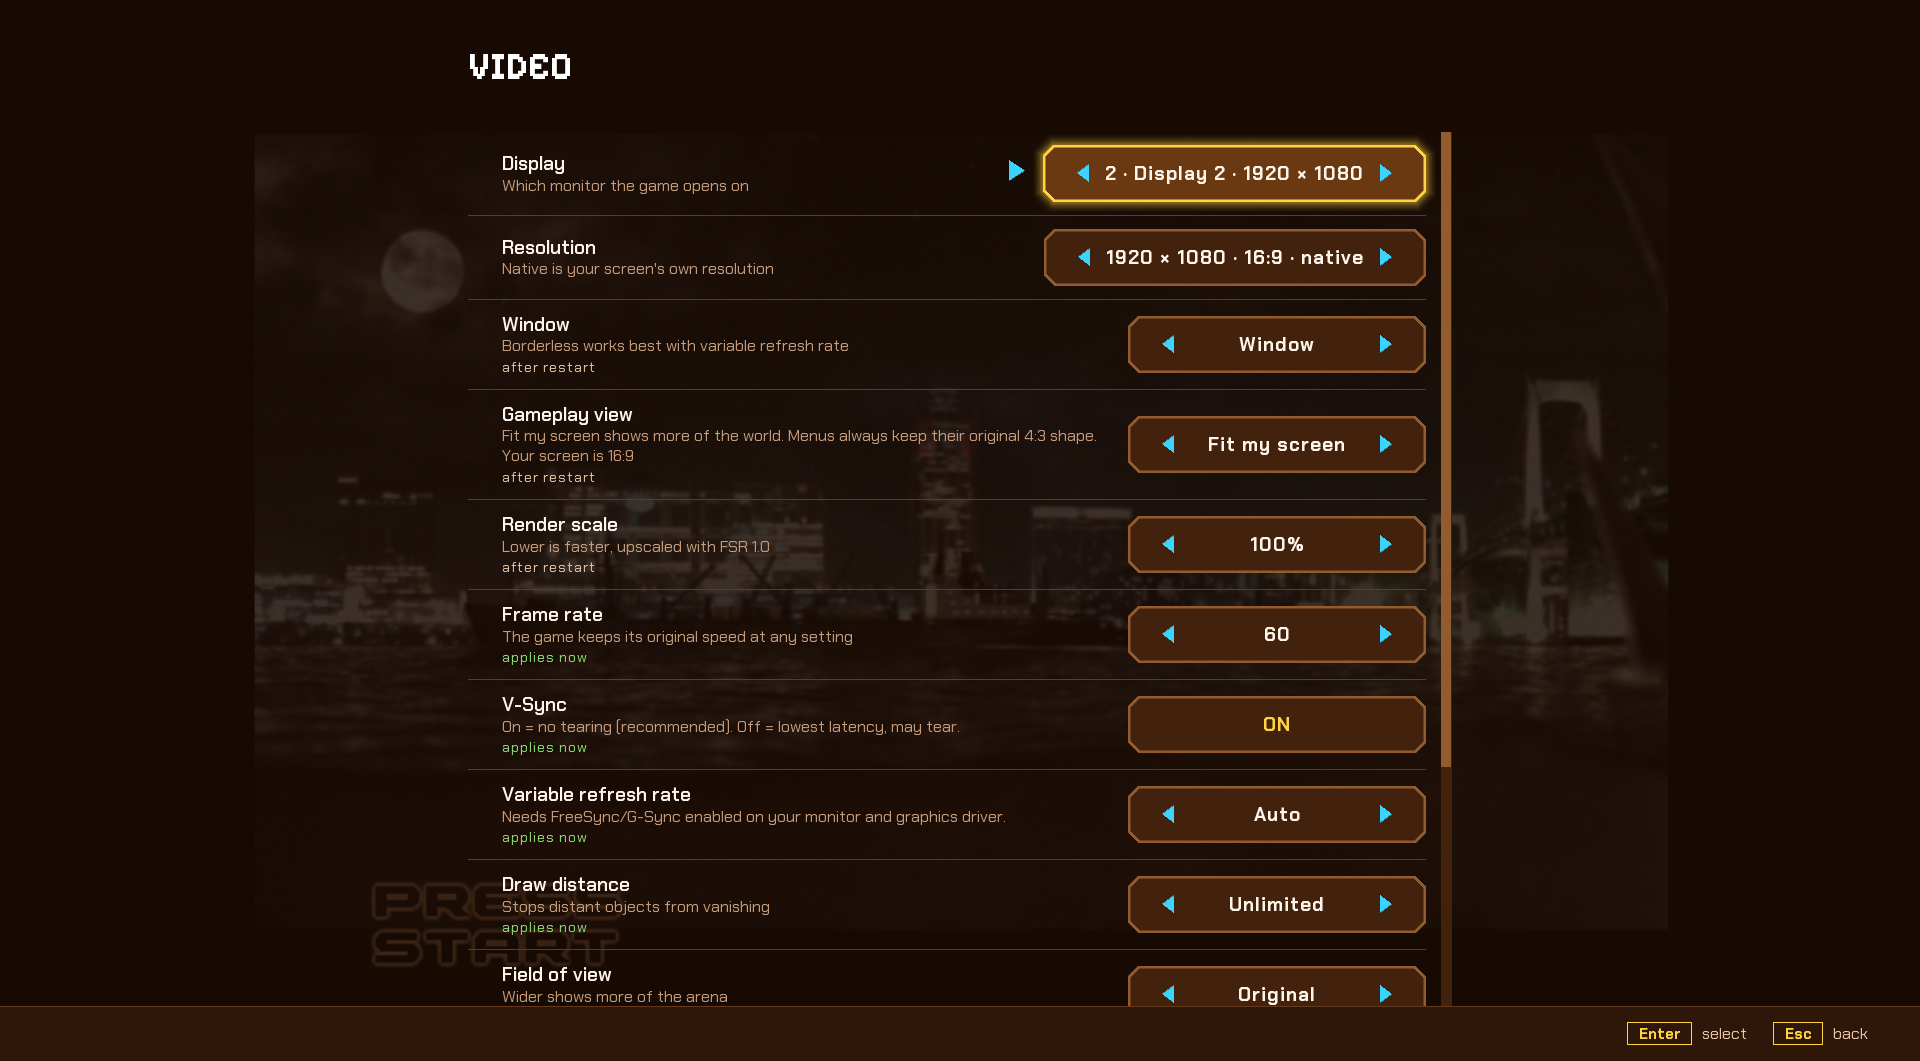
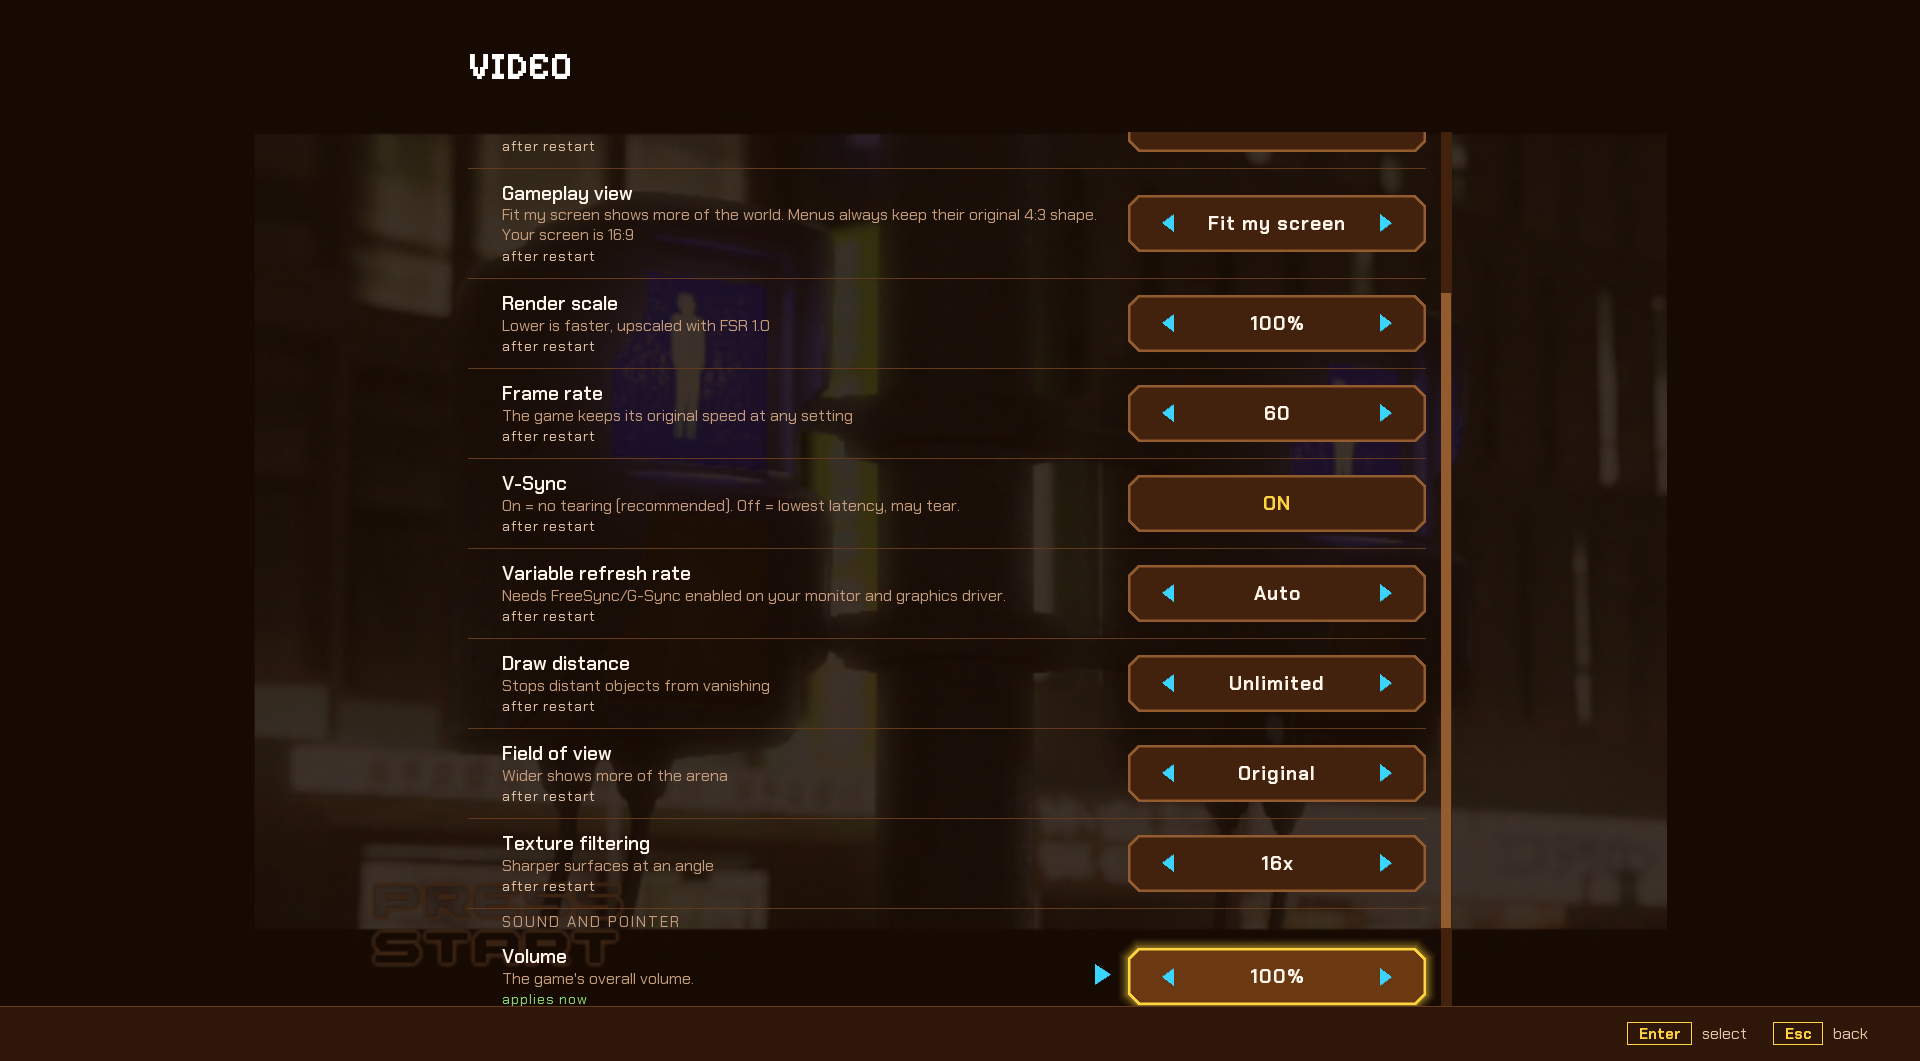
README: in-game menu and PlayStation wording screenshots; overlay Video shot recaptured from the final package

Changed region(s): [[0.125, 0.1244, 0.875, 0.9642], [0.4375, 0.1244, 0.4688, 0.1555]]

diff --git a/README.md b/README.md
@@ -58,6 +58,16 @@
 - **The words follow your controller style.** With Xbox or PlayStation button pictures chosen, texts such as "PRESS START" now say "PRESS MENU" (or "PRESS OPTIONS" on PlayStation where it fits) and "Xbox console" says "this computer". Original Xbox keeps the original words.
 - Volume and the mouse pointer change at once from the in-game menu. Button prompts and the enhancements apply from the next match; other video settings the next time you start.
 
+<table>
+<tr>
+<td><img src="docs/screenshots/0.1.5_overlay_paused.png" alt="The in-game menu over the game: Resume, Video, Enhancements, Controllers, Return to launcher, Quit game"></td>
+<td><img src="docs/screenshots/0.1.5_overlay_video.png" alt="The in-game menu's Video page with the Volume row"></td>
+</tr>
+<tr>
+<td colspan="2"><img src="docs/screenshots/0.1.5_press_menu_wording_playstation.png" alt="With PlayStation button pictures the text says 'Press MENU to add COM'"></td>
+</tr>
+</table>
+
 Earlier: 0.1.4 made the game start about 20 seconds sooner and made mods that change the game's own files work. 0.1.3a fixed a rare freeze. 0.1.3 brought unlimited draw distance at a smooth 60 fps, a big performance boost, Xbox / PlayStation / original Xbox button pictures, the Mods tab and Save crash report.
 
 [Read the full release notes](https://github.com/replayrevival/ste-recomp/releases/tag/v0.1.5-alpha).
